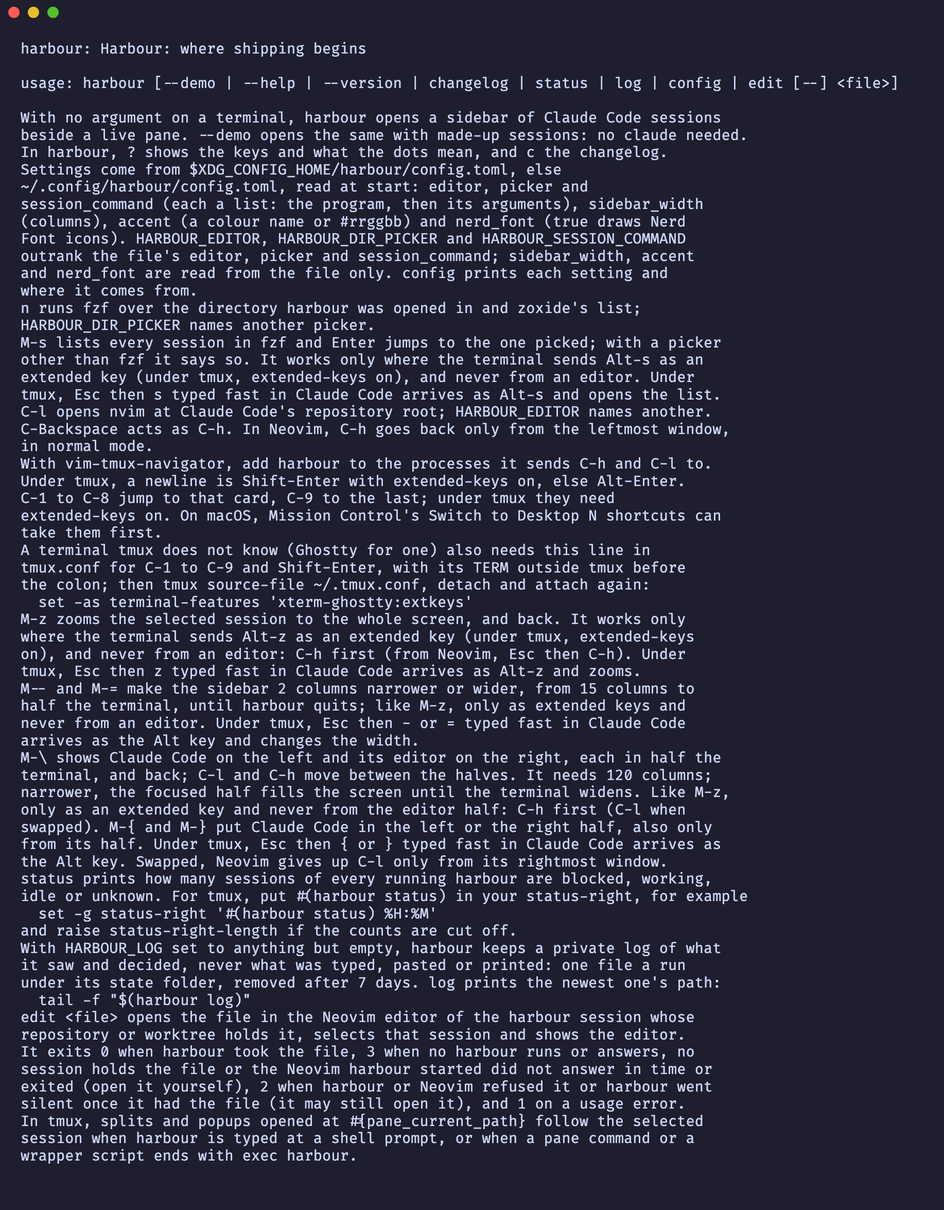
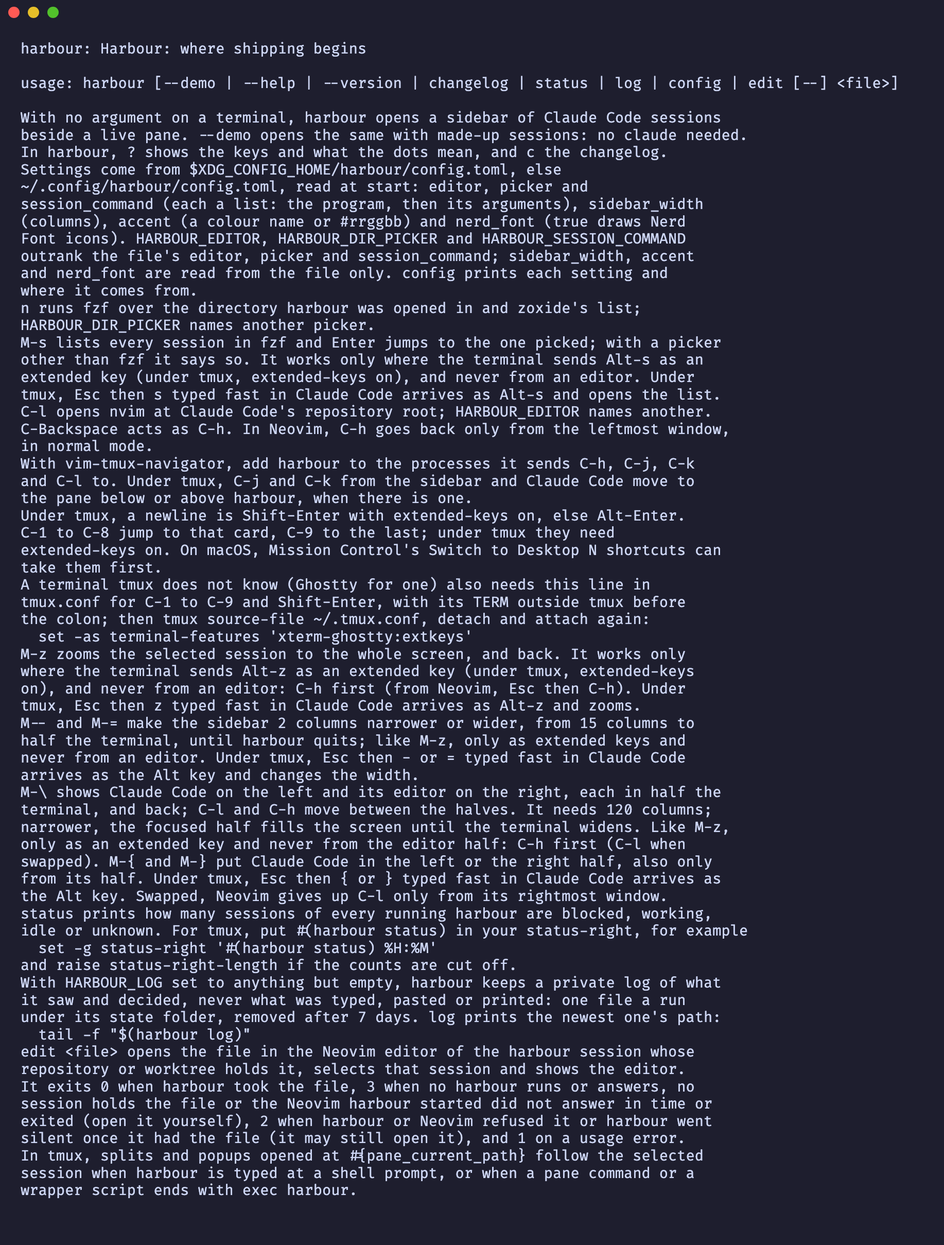
harbour --help, the README and AGENTS.md name C-j and C-k; renumber the phase to 34

Changed region(s): [[0.0, 0.0311, 0.777, 0.963], [0.9013, 0.0621, 0.9324, 0.0932]]

diff --git a/tests/cli.rs b/tests/cli.rs
@@ -367,7 +367,9 @@ tmux, Esc then s typed fast in Claude Code arrives as Alt-s and opens the list.
 C-l opens nvim at Claude Code's repository root; HARBOUR_EDITOR names another.
 C-Backspace acts as C-h. In Neovim, C-h goes back only from the leftmost window,
 in normal mode.
-With vim-tmux-navigator, add harbour to the processes it sends C-h and C-l to.
+With vim-tmux-navigator, add harbour to the processes it sends C-h, C-j, C-k
+and C-l to. Under tmux, C-j and C-k from the sidebar and Claude Code move to
+the pane below or above harbour, when there is one.
 Under tmux, a newline is Shift-Enter with extended-keys on, else Alt-Enter.
 C-1 to C-8 jump to that card, C-9 to the last; under tmux they need
 extended-keys on. On macOS, Mission Control's Switch to Desktop N shortcuts can

diff --git a/src/main.rs b/src/main.rs
@@ -29,7 +29,9 @@ tmux, Esc then s typed fast in Claude Code arrives as Alt-s and opens the list.
 C-l opens nvim at Claude Code's repository root; HARBOUR_EDITOR names another.
 C-Backspace acts as C-h. In Neovim, C-h goes back only from the leftmost window,
 in normal mode.
-With vim-tmux-navigator, add harbour to the processes it sends C-h and C-l to.
+With vim-tmux-navigator, add harbour to the processes it sends C-h, C-j, C-k
+and C-l to. Under tmux, C-j and C-k from the sidebar and Claude Code move to
+the pane below or above harbour, when there is one.
 Under tmux, a newline is Shift-Enter with extended-keys on, else Alt-Enter.
 C-1 to C-8 jump to that card, C-9 to the last; under tmux they need
 extended-keys on. On macOS, Mission Control's Switch to Desktop N shortcuts can

diff --git a/AGENTS.md b/AGENTS.md
@@ -46,14 +46,16 @@ rules from the `AGENTS.md` of its directory.
 ```
 src/main.rs      the binary: `--version`/`-V`/`version`, `--help`/`-h`/`help`, `changelog`, `status` (the counts for the tmux status line), `log` (the newest log's path; exits 1 when there is none), `config` (`src/config.rs`: the file's path and each setting with its source; exits 1 on a bad file), `edit <file>` (`src/handoff.rs`; exits 0 opened, 3 untaken, 2 refused, 1 usage; `edit --help`/`-h` the usage), the interface with no argument on a terminal (after reading the config file, refused in one line before it opens when the file is bad), the same with made-up sessions for `--demo` on a terminal, the usage on anything else
 src/lib.rs                    the library the binary and the tests share
-src/tui.rs                    the terminal: enters and restores it (extended keys asked for with xterm's `modifyOtherKeys` mode 2, every modified key, on entering, reset on leaving, by quit or panic), reads its events, draws the app, hides the cursor at the start of each frame and, after the frame, moves it to the cell the app asks for and shows it in one write (ratatui is never given a cursor, so it keeps it hidden), sends the terminal the cursor shape the app asks for (`src/cursor.rs`) within that frame, shows the cursor when harbour leaves it, on a panic too, and sends the default shape then only when the last shape it sent was another, and hands the app the listener of `harbour edit` (never in the demo); TERM, INT or HUP (a flag the handler sets, seen after the frame and the read of at most 30 ms it interrupts) end the app as a confirmed quit does, without the question, a write to a terminal that is gone ignored, then turns the terminal modes off and raises the same signal again with its default action, so harbour dies by it; an end of input or an EIO from the terminal is a hangup and ends the same way, by HUP, and any other error from a frame or a read ends the app the same way before it goes on; a second TERM or INT acts at once with its default action, so a harbour held on the draw thread still ends, while HUP never takes its default action (an interactive shell closing its pane sends two); a signal caught after a confirmed quit ends harbour by it; `run` takes the `Config` and hands the app its accent and sidebar width; the program a session runs (the config's `session_command`, `claude` by default, given `--session-id` after its arguments when its program's file name is `claude` and it came neither from `HARBOUR_SESSION_COMMAND` nor with an argument that picks a conversation (`--continue`, `-c`, `--resume`, `-r`, `--session-id`, or `--flag=value`), `Config::names_sessions`, else given none; the transcripts are read for both); the directory picker (fzf over zoxide's list when the config's `picker` program is named `fzf`, skipped when missing only as the default, else that program alone, `HARBOUR_DIR_PICKER` always alone); the editor (the config's `editor`, `nvim` by default, Neovim when its file name is `nvim`); it hands the app the real `chdir`, and makes a relative `CLAUDE_CONFIG_DIR` absolute before harbour moves
+src/tui.rs                    the terminal: enters and restores it (extended keys asked for with xterm's `modifyOtherKeys` mode 2, every modified key, on entering, reset on leaving, by quit or panic), reads its events, draws the app, hides the cursor at the start of each frame and, after the frame, moves it to the cell the app asks for and shows it in one write (ratatui is never given a cursor, so it keeps it hidden), sends the terminal the cursor shape the app asks for (`src/cursor.rs`) within that frame, shows the cursor when harbour leaves it, on a panic too, and sends the default shape then only when the last shape it sent was another, and hands the app the listener of `harbour edit` (never in the demo) and, under tmux (`TMUX` and `TMUX_PANE` set and not empty, never in the demo), the `Tmux` of `src/tmux.rs`; TERM, INT or HUP (a flag the handler sets, seen after the frame and the read of at most 30 ms it interrupts) end the app as a confirmed quit does, without the question, a write to a terminal that is gone ignored, then turns the terminal modes off and raises the same signal again with its default action, so harbour dies by it; an end of input or an EIO from the terminal is a hangup and ends the same way, by HUP, and any other error from a frame or a read ends the app the same way before it goes on; a second TERM or INT acts at once with its default action, so a harbour held on the draw thread still ends, while HUP never takes its default action (an interactive shell closing its pane sends two); a signal caught after a confirmed quit ends harbour by it; `run` takes the `Config` and hands the app its accent and sidebar width; the program a session runs (the config's `session_command`, `claude` by default, given `--session-id` after its arguments when its program's file name is `claude` and it came neither from `HARBOUR_SESSION_COMMAND` nor with an argument that picks a conversation (`--continue`, `-c`, `--resume`, `-r`, `--session-id`, or `--flag=value`), `Config::names_sessions`, else given none; the transcripts are read for both); the directory picker (fzf over zoxide's list when the config's `picker` program is named `fzf`, skipped when missing only as the default, else that program alone, `HARBOUR_DIR_PICKER` always alone); the editor (the config's `editor`, `nvim` by default, Neovim when its file name is `nvim`); it hands the app the real `chdir`, and makes a relative `CLAUDE_CONFIG_DIR` absolute before harbour moves
 src/config.rs                 harbour's settings file, `$XDG_CONFIG_HOME/harbour/config.toml` (an absolute, non-empty variable), else `~/.config/harbour/config.toml`, never created, read only as a regular file of at most 64 KiB (none there, or a parent that is not a directory, means no file; anything else at the path, or a parent it cannot search, is a bad file): read once by the interface and by `harbour config`, never by `--demo`, `status`, `edit` or `log`; `editor`, `picker` and `session_command` (a program and its arguments, the program `~`-expanded, a relative one refused), `sidebar_width` (a whole number above 0) and `accent` (one of the 16 colour names or `#rrggbb`), each a `HARBOUR_` variable first when set and not empty, then the file, then the default; `nerd_font` (`true` or `false`, from the file only, `false` by default: whether the terminal draws Nerd Font glyphs, which the pane border's and the cards' icons need); a bad file is one `Refusal` naming the file, the line and the key (a `~` program without `HOME` says so); `report`, what `harbour config` prints, one line a setting, each word quoted and escaped by harbour, the file's path escaped the same way, a `HARBOUR_` variable ignored for not being UTF-8 named on its setting's line
 src/picker.rs                 the directory picker of `n`: a program run as a session in a popup, its standard output sent to a file in a temporary directory only its owner can open (0700), the first line it prints, as bytes, canonicalized (read from where harbour was opened when relative), every path kept as bytes on the way into its arguments, exit statuses 126 and 127 (and 2 for fzf) named as "could not start"; fzf given `--no-expect --no-print-query --no-read0 --no-print0` after the user's `FZF_DEFAULT_OPTS`, so it prints one directory a line; for fzf the popup's own shell writes the list (harbour's directory first, then the list command's lines without it) into a FIFO fzf reads, so a slow list never holds up harbour, and a missing fzf means "start at once" for the default only (a configured one is refused as "could not start"); in its list mode (`Picker::Listed`, the session finder's) the list harbour wrote into that private directory is fzf's input, `--accept-nth=..` is added when `fzf --accept-nth=.. --version` succeeds there, and the first line fzf prints comes back whole; a bare program name is searched on `PATH` with each relative entry taken from where harbour was opened, where the popup's shell runs it
 src/app/mod.rs                the app: its state and what each paste and mouse event does; each session's one directory Claude Code was last seen in, which C-l opens, and its editors, one per directory, which `e` shows in turn
-src/app/key.rs                what each key does: C-Backspace taken as C-h; Ctrl-Shift-h and Ctrl-Shift-l acted on as C-h and C-l where harbour itself takes the key (the sidebar, over Claude Code, and C-h an editor does not keep; swapped side by side, C-h from Claude Code and C-l an editor does not keep), else sent as pressed; Ctrl-m in the sidebar as Enter; Claude Code always gets the legacy bytes (Shift-Enter and Ctrl-Enter the new line, ESC CR), a picker or shown editor the form its program asked for, and a plain Enter for Shift-Enter and Ctrl-Enter when it asked for nothing; to the usage popup while it is open, to the picker while it is open, to the changelog view while it shows, an answer while a question or the help shows, C-h and C-l over the pane, to the shown session while the pane has focus, else one line per sidebar key, each calling its handler
+src/app/key.rs                what each key does: C-Backspace taken as C-h; C-j and C-k (Ctrl-Shift too) handed to `src/app/navigate.rs` after the jump, zoom, side, swap, width and finder keys; Ctrl-Shift-h and Ctrl-Shift-l acted on as C-h and C-l where harbour itself takes the key (the sidebar, over Claude Code, and C-h an editor does not keep; swapped side by side, C-h from Claude Code and C-l an editor does not keep), else sent as pressed; Ctrl-m in the sidebar as Enter; Claude Code always gets the legacy bytes (Shift-Enter and Ctrl-Enter the new line, ESC CR), a picker or shown editor the form its program asked for, and a plain Enter for Shift-Enter and Ctrl-Enter when it asked for nothing; to the usage popup while it is open, to the picker while it is open, to the changelog view while it shows, an answer while a question or the help shows, C-h and C-l over the pane, to the shown session while the pane has focus, else one line per sidebar key, each calling its handler
 src/app/draw.rs               what the app draws, after settling exited editors and answering up to 4 `harbour edit` requests a frame, never one past its deadline; where the terminal's real cursor goes (the shown session's cursor cell while the pane has focus, side by side the focused half's, the picker's over its popup, none while the sidebar has focus, under the help view, under the changelog view, for an exited session, a hidden cursor or a message drawn over it) and the shape the app asks for, the shown program's own whether or not its cursor is hidden or the sidebar has focus, the default under the help and the changelog view and with no session shown
 src/app/handoff.rs            which session holds a file `harbour edit` names (a path inside a session's `root`, resolved through symlinks, never a stopped card's; the deepest root first, then the selected session, then the one the user last acted on: keys, paste or mouse sent to it, C-l, its start) and opening it: that session selected and its editor shown with the file, as C-l would show it, closing the help or the changelog view; where each session works read again before an open, and that same root used for it; `none` to an ask and a refusal to an open while a question, the picker or the usage popup waits, `none` to an ask and a refusal to an open for an editor that is not Neovim, busy past the deadline, and when Neovim cannot start or take the file, a refusal leaving the screen as it was; a Neovim it started that stays silent until the deadline closed and the request untaken, and one that exits untaken at once
-src/app/logging.rs            what the app writes to the log: start and quit, a bound key by name (a key or paste forwarded only as `input to=<where> bytes=<n>`, the bytes sent, never its text; an unbound key the sidebar does not forward as `key name=other`), focus, selection, refusals, each session's and editor's start and exit, every `harbour edit` request and Neovim call, the changelog view's open and close (`changelog shown`, `changelog closed`), the usage popup's close (`usage closed`) and each `t` (`usage view=raw` or `usage view=bars`), never the report's text, what ended it when not a key (`signal name=<NAME>` for TERM, INT or HUP, `hangup` for a terminal that went away, `error` for another error from a frame or a read) just before the quit line, a frame of 100 ms or more, and the panics a session contained; nothing when the log is off
+src/app/logging.rs            what the app writes to the log: start and quit, a bound key by name (a key or paste forwarded only as `input to=<where> bytes=<n>`, the bytes sent, never its text; an unbound key the sidebar does not forward as `key name=other`), focus, selection, refusals, each session's and editor's start and exit, every `harbour edit` request and Neovim call, each move to another tmux pane (`tmux pane=below`, `tmux pane=above`, in place of the key's line), the changelog view's open and close (`changelog shown`, `changelog closed`), the usage popup's close (`usage closed`) and each `t` (`usage view=raw` or `usage view=bars`), never the report's text, what ended it when not a key (`signal name=<NAME>` for TERM, INT or HUP, `hangup` for a terminal that went away, `error` for another error from a frame or a read) just before the quit line, a frame of 100 ms or more, and the panics a session contained; nothing when the log is off
+src/app/navigate.rs           C-j and C-k from the sidebar or Claude Code (never while a shown editor has focus, side by side its half included), under tmux only: when `src/tmux.rs` moved tmux to the pane below or above harbour's, the key is used up; otherwise it goes on as before (the sidebar's next or previous card, Claude Code's key)
+src/tmux.rs                   `Tmux`, made from `TMUX` and `TMUX_PANE` when both are set and not empty; `select`: `tmux display-message -p -t <pane> '#{pane_at_bottom}'` (`#{pane_at_top}` above), then, only on an exact `0`, `tmux select-pane -D` (`-U`) `-t <pane>`, true only when both exit 0; both share one 100 ms deadline, a call past it killed and counted as no move, its answer read with `poll` and one read so an inherited pipe never holds it; stdin and stderr null
 src/app/jump.rs               `jump`: Ctrl-1 to Ctrl-8 select the card at that position and Ctrl-9 the last, from the sidebar or a pane (a session never gets them), then focus its pane or resume it as Enter does; nothing beyond the last card, nothing while a question, the help view, the changelog view or the picker is shown; they arrive only as extended keys, so a terminal without them sends what it sent before
 src/finder.rs                 the session finder's list, a pure function: one line per card, `<n>\t<dot>\t<title>\t<place>\t<age>`, `<n>` its position when the list opened (never shown or matched), `<age>` the word `stopped` or `exited` for a card that does not run (their dot is the idle one), right-aligned with the times, the title and place `text::clean`ed (up to 512 characters) and padded, never cut further, by display width to the widest of each, so fzf can match every word and scrolls to it; `chosen` reads the position back from the line fzf prints
 src/app/find.rs               Alt-s (or Alt-S, Caps Lock on), only in an extended form and never from an editor (a legacy `ESC s` or an editor's Alt-s goes on to the session): with a card, the picker's popup (` sessions `) runs fzf over that list, written into the pick's private directory, with `--delimiter=<TAB> --with-nth=2.. --nth=2,3 --tabstop=1 --no-sort --layout=reverse --bind=enter:accept --no-preview --header-lines=0` after the directory picker's options (and `--accept-nth=..` where fzf takes it), only when the picker's file name is `fzf` (else `Could not start the session finder: it needs fzf, not <program>`; a list it cannot write says `Could not list the sessions: <error>`); the list kept as who was where when it opened (a session by its id and remembered id, a stopped card by its remembered id), and a pick goes through `jump` as Ctrl-N does: a session that ended while the list was open as its exited card, a stopped card merged meanwhile as the session that now holds its id, a line without its number said to come from `FZF_DEFAULT_OPTS`; while it is open every key, paste and mouse event goes to fzf, as for the directory picker
@@ -132,6 +134,7 @@ tests/           outside-in: `tests/cli.rs` runs the real binary;
                  `tests/edit.rs` runs `harbour edit` against listeners of `tests/handoff.rs`'s kind, which a test answers itself; `tests/app/handoff.rs` hands the app requests and stands in a socket for Neovim; `tests/app/nearest.rs` covers which holder gets the file and what moves its last use; `tests/e2e/edit.rs` runs `harbour edit` against harbour, and `tests/e2e/neovim.rs` holds four smoke tests against a real clean Neovim; `tests/app/real_neovim.rs` runs that Neovim's TUI in a harbour session and checks `mode`, `eval`, `edit`, `changes`, `wants_ctrl_h`, `wants_ctrl_l` and `open` against it; `tests/app/neovim.rs` stands in a socket for Neovim and covers C-h, swapped C-l (`wants_ctrl_h`, `wants_ctrl_l`), `x` and `q` over it; `tests/idle.rs` (Linux only) counts the listener thread's wake-ups while idle;
                  `tests/app/jumping.rs` covers Ctrl-1 to Ctrl-9 in process, `tests/e2e/keys.rs` what tmux sends for them with extended keys on and off;
                  `tests/app/settling.rs` what each step's result ends harbour in (a caught signal stops it and ends by that signal, an end of input or EIO by HUP, any other error stops it and goes on as the error, a signal after a confirmed quit ends by it and logs nothing more), `tests/app/zoom.rs` covers Alt-z in process, `tests/app/width_keys.rs` Alt-minus and Alt-equals, `tests/app/side.rs` Alt-\ in process, `tests/app/side_jump.rs` the jumps and `harbour edit` while side by side, `tests/app/side_states.rs` the rest of its states, `tests/app/side_border.rs` its borders, `tests/app/side_mouse.rs` its clicks and gestures, `tests/app/side_swap.rs` Alt-{ and Alt-}, `tests/app/finding.rs` and `tests/app/finding_states.rs` the session finder of Alt-s in process (`HARBOUR_DIR_PICKER`'s place taken by `tests/fixtures/finder/fzf`, a script named `fzf` that prints its arguments and the list on stderr, then picks the first listed line holding what is typed, never a real fzf; `tests/fixtures/nth-finder/fzf` prints the line without its number unless given `--accept-nth=..`, `tests/fixtures/old-finder/fzf` refuses `--accept-nth` as an old fzf does), `tests/finder.rs` its lines, `tests/picker.rs` the message of a list that cannot be written, `tests/e2e/finding.rs` Alt-s through tmux, `tests/app/zoom_border.rs` the zoomed border, `tests/zoom.rs` the table of how its headline fits a room;
+                 `tests/tmux.rs` runs `select` against a `/bin/sh -c` script in place of tmux (`Tmux::with_program`); `tests/app/navigating.rs` covers C-j and C-k in process the same way; `tests/e2e/navigating.rs` splits the scratch server's window and reads which pane is active, with `tmux` linked onto the scratch `PATH`;
                  `tests/app/moving.rs` hands the app a recording move, never the real one; `tests/e2e/moving.rs` reads `#{pane_current_path}` of a harbour started with `Server::exec`;
                  `tests/app/usage.rs` covers the usage popup of `u` (what reaches it, what it leaves behind, its program), `tests/app/usage_states.rs` what it shows (loading, nothing, an exit, its size, its width after a shrink and its private folder), `tests/app/usage_bars.rs` the bars a finished report draws (that they stay once shown only on Linux, where a PTY still delivers what a child of the report prints after it exits), `tests/usage.rs` the table of what `parse` reads and `lines` draws;
                  `tests/tabs.rs` is the table of how the pane border's names fit a width, with and without icons;
@@ -212,6 +215,10 @@ one still counts as must when it shows new impact.
   session finder, a stopped card that resumes) do the same reads for where the session works when
   it has no editor yet, and start that editor (`src/app/side.rs`); closing the usage popup while its report still loads hangs up its
   process group, then kills it, after a 200 ms grace (`src/session.rs`).
+- **C-j and C-k under tmux run tmux on the key thread**: from the sidebar or Claude Code each
+  press runs `tmux display-message`, then `tmux select-pane` when a pane lies that way, within
+  one 100 ms deadline (about 7 ms each measured), so a stalled tmux server delays that key by at
+  most 100 ms and the key then goes on as without tmux (`src/tmux.rs`).
 - **An open of `harbour edit` into a running Neovim runs on the draw thread**: the listener's
   threads accept and read requests, but the RPC to Neovim (`nvim_get_mode`, retried while its
   socket is not up yet, then `nvim_cmd`, its mode asked every 50 ms while that waits, so a prompt it raises is refused within 50 ms) runs on the draw thread, at most 1 s each for a

diff --git a/plans/metrics.md b/plans/metrics.md
@@ -54,5 +54,5 @@ costs context.
 | 29 | #103 | 2026-11-21 11:37:41Z | 11:47:00Z | 13:53Z | 14:06:22Z | 14:06:39Z | 14:08:19Z (v0.24.0) | 2 h 30 min 38 s | 2 | measured, `subagent_tokens` of the completion notices: 162549, 143219; the notice of the last ship is not known when this row is written | measured, `subagent_tokens` of the `/code-review` skill, one per round: round 1: 163822, round 2: 87098 | none | context 772748 at start, 825147 at the clean review, measured from its transcript, no compaction between the two; tokens unknown | 2 h 16 min from build start (11:37Z) to the end of the clean review round. The orchestrator session was shared with phases 27 and 28 built in parallel. The notice of the last ship is not known when this row is written. Phase 28's merge commit started no release run, so its Released cell stays empty until a later run releases it. Ready, merged and released were written by phase 30, read from GitHub; start → end runs to the v0.24.0 release. |
 | 30 | #116 | 2026-11-21 20:07:56Z | 20:11:51Z | 21:42Z | 21:53:17Z | 21:53:32Z | 21:55:20Z (v0.25.0) | 1 h 47 min 24 s | 3 | measured, `subagent_tokens` of the completion notices: 136837, 156616, 165298, 101644, 113971, 129576, 137600, 141239, 94741, 96996, 120783, 122421, 124151; the notice of the last ship is not known when this row is written | measured, `subagent_tokens` of the `/code-review` skill, one per round: round 1: 168080, round 2: 159960, round 3: 87456 | none | context 217833 at start, 284274 at the clean review, measured from its transcript, one compaction earlier in the session, none between the two; tokens unknown | 1 h 34 min from build start (20:07:56Z) to the end of the clean review round (21:42Z). Opens with the sweep of phases 25 to 29. The orchestrator session was shared with two fix branches (#114, #115) and phase 31 built in parallel. Build start from the worktree's reflog. Ready, merged and released were written by phase 31, read from GitHub; start → end runs to the v0.25.0 release. |
 | 31 | #118 | 2026-11-21 20:44:57Z | 21:07:15Z | 22:22Z | 22:31:43Z | 22:31:46Z | 22:33:20Z (v0.26.0) | 1 h 48 min 23 s | 3 | measured, `subagent_tokens` of the completion notices: 99794, 118507, 128820, 139512, 150684, 152633, 155179, 114858, 120143, 123404, 107990, 111506, 114546; the notice of the last ship is not known when this row is written | `/code-review` skill, one per round: round 1: unknown (the skill ran inline in the orchestrator's session and sent no notice), round 2: 146216 measured, round 3: 151447 measured | none | context 259141 at start, 325668 at the clean review, measured from its transcript, no compaction between the two; tokens unknown | 1 h 37 min from build start (20:44:57Z) to the end of the clean review round (22:22Z). The orchestrator session was shared with phase 30 and phase 32 built in parallel. Build start from the worktree's reflog. Phase 30 was merged into this branch during review round 2. Ready, merged and released were written by phase 32, read from GitHub; start → end runs to the v0.26.0 release. |
-| 32 | #120 | 2026-11-21 21:54:22Z | 21:56:44Z | 23:12Z | 23:22:33Z | 23:22:36Z | 23:24:10Z (v0.27.0) | 1 h 29 min 48 s | 3 | measured, `subagent_tokens` of the completion notices: 124640, 137468, 140787, 147766, 158428, 165876, 100486, 137859, 152715; the notice of the last ship is not known when this row is written | measured, `subagent_tokens` of the `/code-review` skill, one per round: round 1: 148526, round 2: 154545, round 3: 155262 | none | context 308074 at start, 352129 at the clean review, measured from its transcript, no compaction between the two; tokens unknown | 1 h 18 min from build start (21:54:22Z) to the end of the clean review round (23:12Z). The orchestrator session was shared with phase 31 built in parallel. Build start from the worktree's reflog, the draft from `gh pr view 120 --json createdAt`. Phase 31 was merged into this branch before the outcome. Ready, merged and released were written by phase 33, read from GitHub; start → end runs to the v0.27.0 release. |
-| 33 | | 2026-11-22 01:02:54Z | | | | | | | | | | none | | Build start from the worktree's reflog. |
+| 32 | #120 | 2026-11-21 21:54:22Z | 21:56:44Z | 23:12Z | 23:22:33Z | 23:22:36Z | 23:24:10Z (v0.27.0) | 1 h 29 min 48 s | 3 | measured, `subagent_tokens` of the completion notices: 124640, 137468, 140787, 147766, 158428, 165876, 100486, 137859, 152715; the notice of the last ship is not known when this row is written | measured, `subagent_tokens` of the `/code-review` skill, one per round: round 1: 148526, round 2: 154545, round 3: 155262 | none | context 308074 at start, 352129 at the clean review, measured from its transcript, no compaction between the two; tokens unknown | 1 h 18 min from build start (21:54:22Z) to the end of the clean review round (23:12Z). The orchestrator session was shared with phase 31 built in parallel. Build start from the worktree's reflog, the draft from `gh pr view 120 --json createdAt`. Phase 31 was merged into this branch before the outcome. Ready, merged and released were written by phase 34, read from GitHub; start → end runs to the v0.27.0 release. |
+| 34 | | 2026-11-22 01:02:54Z | | | | | | | | | | none | | Build start from the worktree's reflog. |

diff --git a/PLAN.md b/PLAN.md
@@ -40,7 +40,7 @@ file under `plans/`; its time and tokens are a row of [`plans/metrics.md`](plans
 | 30 | [swap Claude Code and the editor in side by side](plans/phase-30-swap-halves.md), with the sweep of phases 25 to 29 | [v0.25.0](https://github.com/piacsek/harbour/releases/tag/v0.25.0) |
 | 31 | [the usage popup draws its report as bars](plans/phase-31-usage-bars.md) | [v0.26.0](https://github.com/piacsek/harbour/releases/tag/v0.26.0) |
 | 32 | [read the changelog inside harbour with c](plans/phase-32-changelog-view.md) | [v0.27.0](https://github.com/piacsek/harbour/releases/tag/v0.27.0) |
-| 33 | [C-j and C-k move to the tmux pane below or above harbour](plans/phase-33-tmux-pane-navigation.md) | |
+| 34 | [C-j and C-k move to the tmux pane below or above harbour](plans/phase-34-tmux-pane-navigation.md) | |
 
 ## Backlog
 

diff --git a/README.md b/README.md
@@ -58,7 +58,9 @@ harbour config      # the settings file's path and where each setting comes from
 `n` picks the directory with fzf, from the directory harbour was opened in and the ones
 zoxide ranks; `HARBOUR_DIR_PICKER` names another picker. Without fzf, sessions start in the
 directory harbour was opened in. Sessions end when harbour quits. Inside tmux with
-vim-tmux-navigator, add `harbour` to the pattern of processes it passes `C-h` and `C-l` to.
+vim-tmux-navigator, add `harbour` to the pattern of processes it passes `C-h`, `C-j`, `C-k`
+and `C-l` to; `C-j` and `C-k` from the sidebar or Claude Code then move to the tmux pane below
+or above harbour.
 
 ## Development
 

diff --git a/plans/phase-34-tmux-pane-navigation.md b/plans/phase-34-tmux-pane-navigation.md
@@ -1,4 +1,4 @@
-# Phase 33: C-j and C-k move to the tmux pane below or above harbour
+# Phase 34: C-j and C-k move to the tmux pane below or above harbour
 
 With vim-tmux-navigator in `tmux.conf` and harbour in the pattern of processes it sends C-h,
 C-j, C-k and C-l to, C-j and C-k arrive inside harbour. In the sidebar they act as `j` and `k`

diff --git a/changes/phase-33-tmux-pane-navigation.md b/changes/phase-33-tmux-pane-navigation.md
@@ -1,0 +1,5 @@
+kind: feat
+
+- Under tmux, C-j and C-k from the sidebar or Claude Code move to the tmux pane below or above
+  harbour, when there is one. Otherwise they act as before. With vim-tmux-navigator, add harbour
+  to the processes it sends C-h, C-j, C-k and C-l to.
